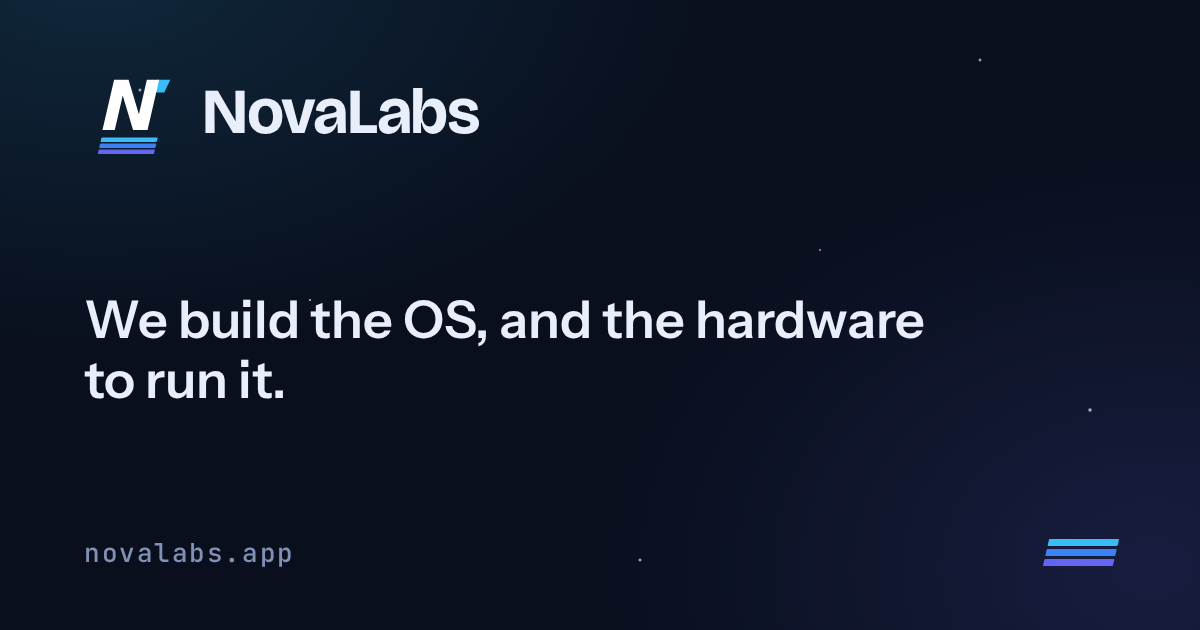
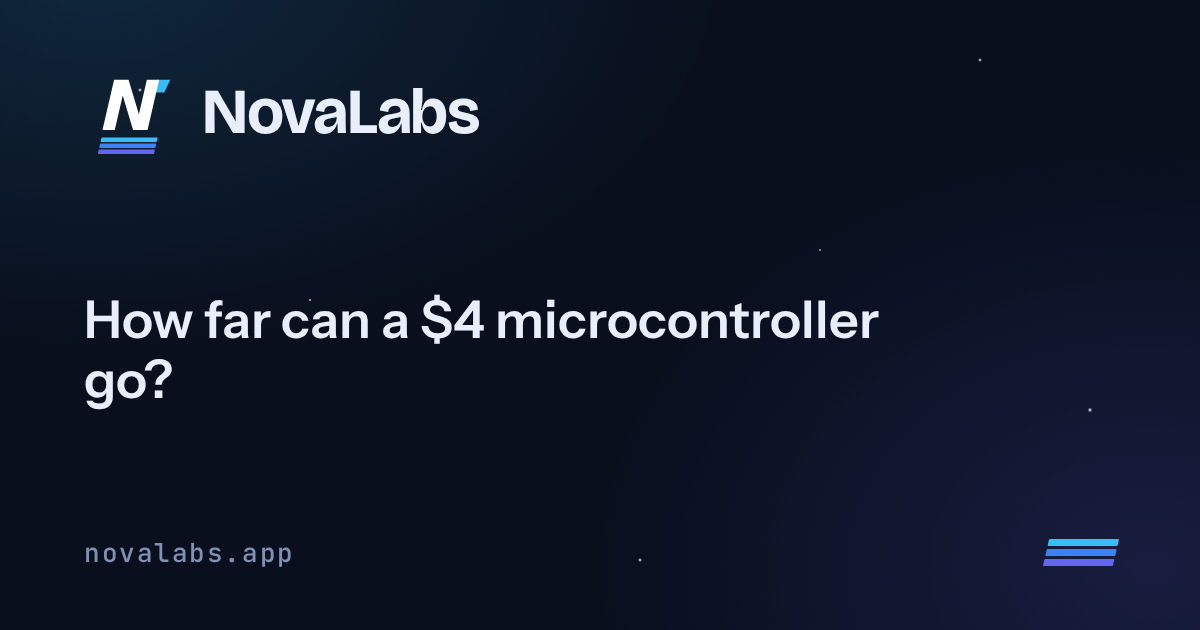
A headline that sounds like the lab: "How far can a $4 microcontroller go?"
The old tagline read like a slogan. The question is where the lab actually started
(it was already in the About text), so it leads and the lede says what has come of
it so far. The About text now tells what followed instead of repeating the question,
the Nova D1 status heading is plainer, and the social card matches.

Changed region(s): [[0.0617, 0.4524, 0.7708, 0.5429], [0.0617, 0.573, 0.2467, 0.6635]]

diff --git a/index.html b/index.html
@@ -3,8 +3,8 @@
 <section class="wrap hero" id="home">
   <div>
     <div class="eyebrow"><span class="stripes" aria-hidden="true"><i></i><i></i><i></i></span>Independent hardware &amp; software lab</div>
-    <h1>We build the OS — and the hardware to run it.</h1>
-    <p class="lede">An independent hardware &amp; software lab. Home of <strong>RPCortex</strong>, a real operating system for the Raspberry Pi Pico family, written in C++, and the <strong>Nova D1</strong>, a build-it-yourself multi-tool that runs it.</p>
+    <h1>How far can a $4 microcontroller go?</h1>
+    <p class="lede">So far that means <strong>RPCortex</strong>, a real operating system for the Raspberry Pi Pico family, written in C++, and the <strong>Nova D1</strong>, a build-it-yourself multi-tool that runs it.</p>
     <div class="actions">
       <a class="btn btn-primary" href="https://rpc.novalabs.app" target="_blank" rel="noopener">Explore RPCortex</a>
       <a class="btn btn-ghost" href="./d1.html">Meet the Nova D1</a>
@@ -67,7 +67,7 @@
 <section class="wrap sec" id="stats"><div class="facts"><div class="fact"><b>3</b><span>Active projects</span></div><div class="fact"><b>v2</b><span>RPCortex · Vela II beta</span></div><div class="fact"><b>$20+</b><span>Nova D1 starter build</span></div><div class="fact"><b>Q1&nbsp;’27</b><span>Nova D1 launch</span></div></div></section>
 
 <section class="wrap sec" id="about">
-  <div class="about"><div><div class="eyebrow"><span class="stripes" aria-hidden="true"><i></i><i></i><i></i></span>Who</div><h2>About NovaLabs</h2></div><div class="col"><p>NovaLabs is an independent hardware and software lab — founded and run by <strong>dash</strong>. It started as a 3D-printed homelab and a simple curiosity: how far can a $4 microcontroller really go?</p><p>The answer became <strong>RPCortex</strong>, a real operating system for tiny chips. The <strong>Nova D1</strong> is where that software meets hardware you can build yourself. Everything here is made to be accessible — low-cost, hackable, and yours to take apart.</p><p class="foot">More projects under the NovaLabs roof are on the way.</p></div></div>
+  <div class="about"><div><div class="eyebrow"><span class="stripes" aria-hidden="true"><i></i><i></i><i></i></span>Who</div><h2>About NovaLabs</h2></div><div class="col"><p>NovaLabs is an independent hardware and software lab, run by <strong>dash</strong>. It started in a 3D-printed homelab with that one question.</p><p>The first answer was <strong>RPCortex</strong>, a real operating system for tiny chips. The <strong>Nova D1</strong> is where that software meets hardware you can build yourself. Everything here is made to be accessible: low-cost, hackable, and yours to take apart.</p><p class="foot">More projects under the NovaLabs roof are on the way.</p></div></div>
 </section>
 </main>
 <footer class="foot"><div class="wrap foot-in"><a class="brand" href="./"><img src="./logo.svg" alt="">NovaLabs</a><div class="foot-links"><a href="https://rpc.novalabs.app" target="_blank" rel="noopener">RPCortex</a><a href="./d1.html">Nova D1</a><a href="./d1-sim.html">Simulator</a><a href="./docs/index.html">Docs</a><a href="./contact.html">Contact</a><a href="./privacy.html">Privacy</a><a href="https://github.com/dash1101" target="_blank" rel="noopener">GitHub</a></div><small>Built by dash &middot; &copy; 2026 NovaLabs &middot; all rights reserved</small></div></footer><script src="./ds/ds.js"></script></body></html>

diff --git a/site/pages/index.html b/site/pages/index.html
@@ -8,8 +8,8 @@ path: index.html
 <section class="wrap hero" id="home">
   <div>
     <div class="eyebrow"><span class="stripes" aria-hidden="true"><i></i><i></i><i></i></span>Independent hardware &amp; software lab</div>
-    <h1>We build the OS — and the hardware to run it.</h1>
-    <p class="lede">An independent hardware &amp; software lab. Home of <strong>RPCortex</strong>, a real operating system for the Raspberry Pi Pico family, written in C++, and the <strong>Nova D1</strong>, a build-it-yourself multi-tool that runs it.</p>
+    <h1>How far can a $4 microcontroller go?</h1>
+    <p class="lede">So far that means <strong>RPCortex</strong>, a real operating system for the Raspberry Pi Pico family, written in C++, and the <strong>Nova D1</strong>, a build-it-yourself multi-tool that runs it.</p>
     <div class="actions">
       <a class="btn btn-primary" href="https://rpc.novalabs.app" target="_blank" rel="noopener">Explore RPCortex</a>
       <a class="btn btn-ghost" href="{{root}}d1.html">Meet the Nova D1</a>
@@ -72,6 +72,6 @@ path: index.html
 <section class="wrap sec" id="stats"><div class="facts"><div class="fact"><b>3</b><span>Active projects</span></div><div class="fact"><b>v2</b><span>RPCortex · Vela II beta</span></div><div class="fact"><b>$20+</b><span>Nova D1 starter build</span></div><div class="fact"><b>Q1&nbsp;’27</b><span>Nova D1 launch</span></div></div></section>
 
 <section class="wrap sec" id="about">
-  <div class="about"><div><div class="eyebrow"><span class="stripes" aria-hidden="true"><i></i><i></i><i></i></span>Who</div><h2>About NovaLabs</h2></div><div class="col"><p>NovaLabs is an independent hardware and software lab — founded and run by <strong>dash</strong>. It started as a 3D-printed homelab and a simple curiosity: how far can a $4 microcontroller really go?</p><p>The answer became <strong>RPCortex</strong>, a real operating system for tiny chips. The <strong>Nova D1</strong> is where that software meets hardware you can build yourself. Everything here is made to be accessible — low-cost, hackable, and yours to take apart.</p><p class="foot">More projects under the NovaLabs roof are on the way.</p></div></div>
+  <div class="about"><div><div class="eyebrow"><span class="stripes" aria-hidden="true"><i></i><i></i><i></i></span>Who</div><h2>About NovaLabs</h2></div><div class="col"><p>NovaLabs is an independent hardware and software lab, run by <strong>dash</strong>. It started in a 3D-printed homelab with that one question.</p><p>The first answer was <strong>RPCortex</strong>, a real operating system for tiny chips. The <strong>Nova D1</strong> is where that software meets hardware you can build yourself. Everything here is made to be accessible: low-cost, hackable, and yours to take apart.</p><p class="foot">More projects under the NovaLabs roof are on the way.</p></div></div>
 </section>
 </main>

diff --git a/site/pages/d1.html b/site/pages/d1.html
@@ -30,7 +30,7 @@ path: d1.html
 </section>
 
 <section class="wrap sec" id="now">
-  <div class="sec-head"><div class="eyebrow"><span class="stripes" aria-hidden="true"><i></i><i></i><i></i></span>Where it is</div><h2>Two builds, one device</h2>
+  <div class="sec-head"><div class="eyebrow"><span class="stripes" aria-hidden="true"><i></i><i></i><i></i></span>Where it is</div><h2>Where it stands</h2>
     <p>Development is on the C++ build for RPCortex v2. The MicroPython build for v1 is the one that has been confirmed module by module on hardware.</p></div>
   <div class="cats">
     <div class="panel cat"><h3>On RPCortex v2 (C++) <span class="pct">current</span></h3>

diff --git a/d1.html b/d1.html
@@ -25,7 +25,7 @@
 </section>
 
 <section class="wrap sec" id="now">
-  <div class="sec-head"><div class="eyebrow"><span class="stripes" aria-hidden="true"><i></i><i></i><i></i></span>Where it is</div><h2>Two builds, one device</h2>
+  <div class="sec-head"><div class="eyebrow"><span class="stripes" aria-hidden="true"><i></i><i></i><i></i></span>Where it is</div><h2>Where it stands</h2>
     <p>Development is on the C++ build for RPCortex v2. The MicroPython build for v1 is the one that has been confirmed module by module on hardware.</p></div>
   <div class="cats">
     <div class="panel cat"><h3>On RPCortex v2 (C++) <span class="pct">current</span></h3>

diff --git a/ds/ds.css b/ds/ds.css
@@ -106,8 +106,6 @@ body::after {
 .brand:hover { color: var(--text); }
 .brand img { width: 30px; height: 30px; }
 .brand img.wordmark { width: auto; height: 34px; }
-.foot .brand img.wordmark { height: 30px; }
-.lockup { display: block; width: min(100%, 440px); height: auto; margin: 0 0 18px -4px; }
 .menu { display: flex; align-items: center; gap: 4px; margin-left: auto; }
 .menu a { color: var(--dim); text-decoration: none; font-size: 14.5px; padding: 8px 12px; border-radius: 9px; min-height: 40px; display: inline-flex; align-items: center; }
 .menu a:hover { color: var(--text); background: rgba(255,255,255,.05); }
